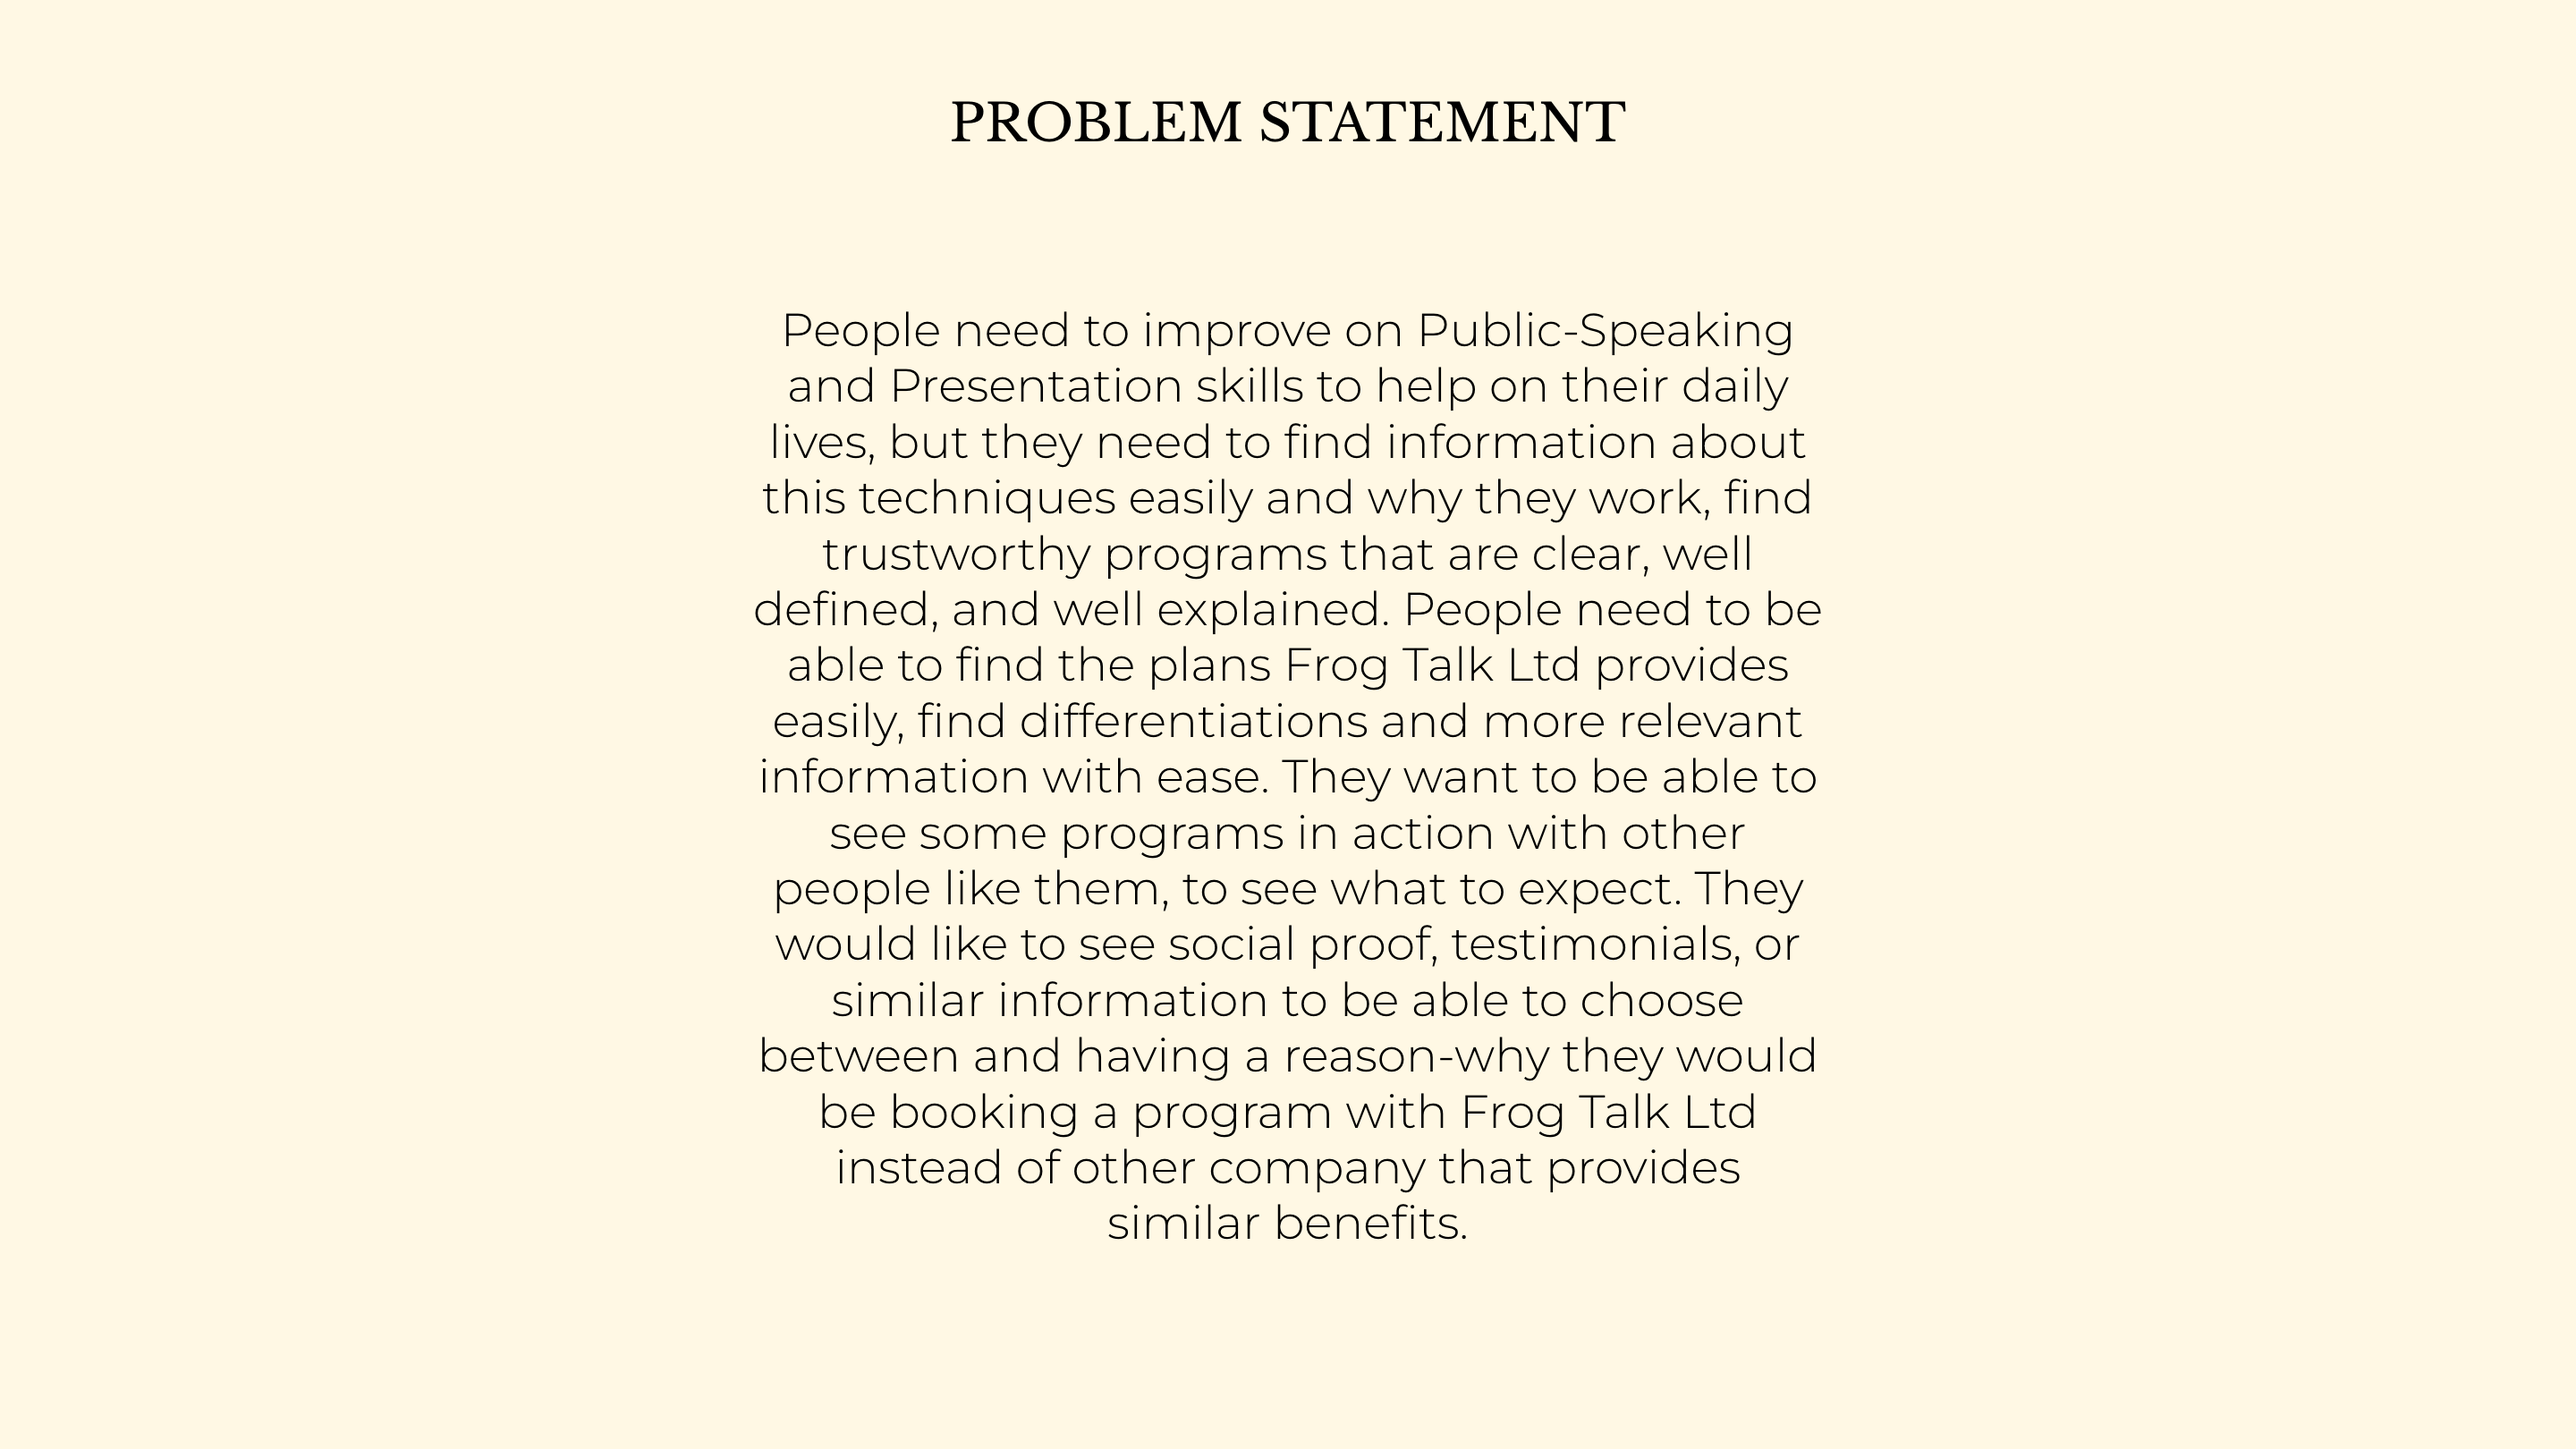
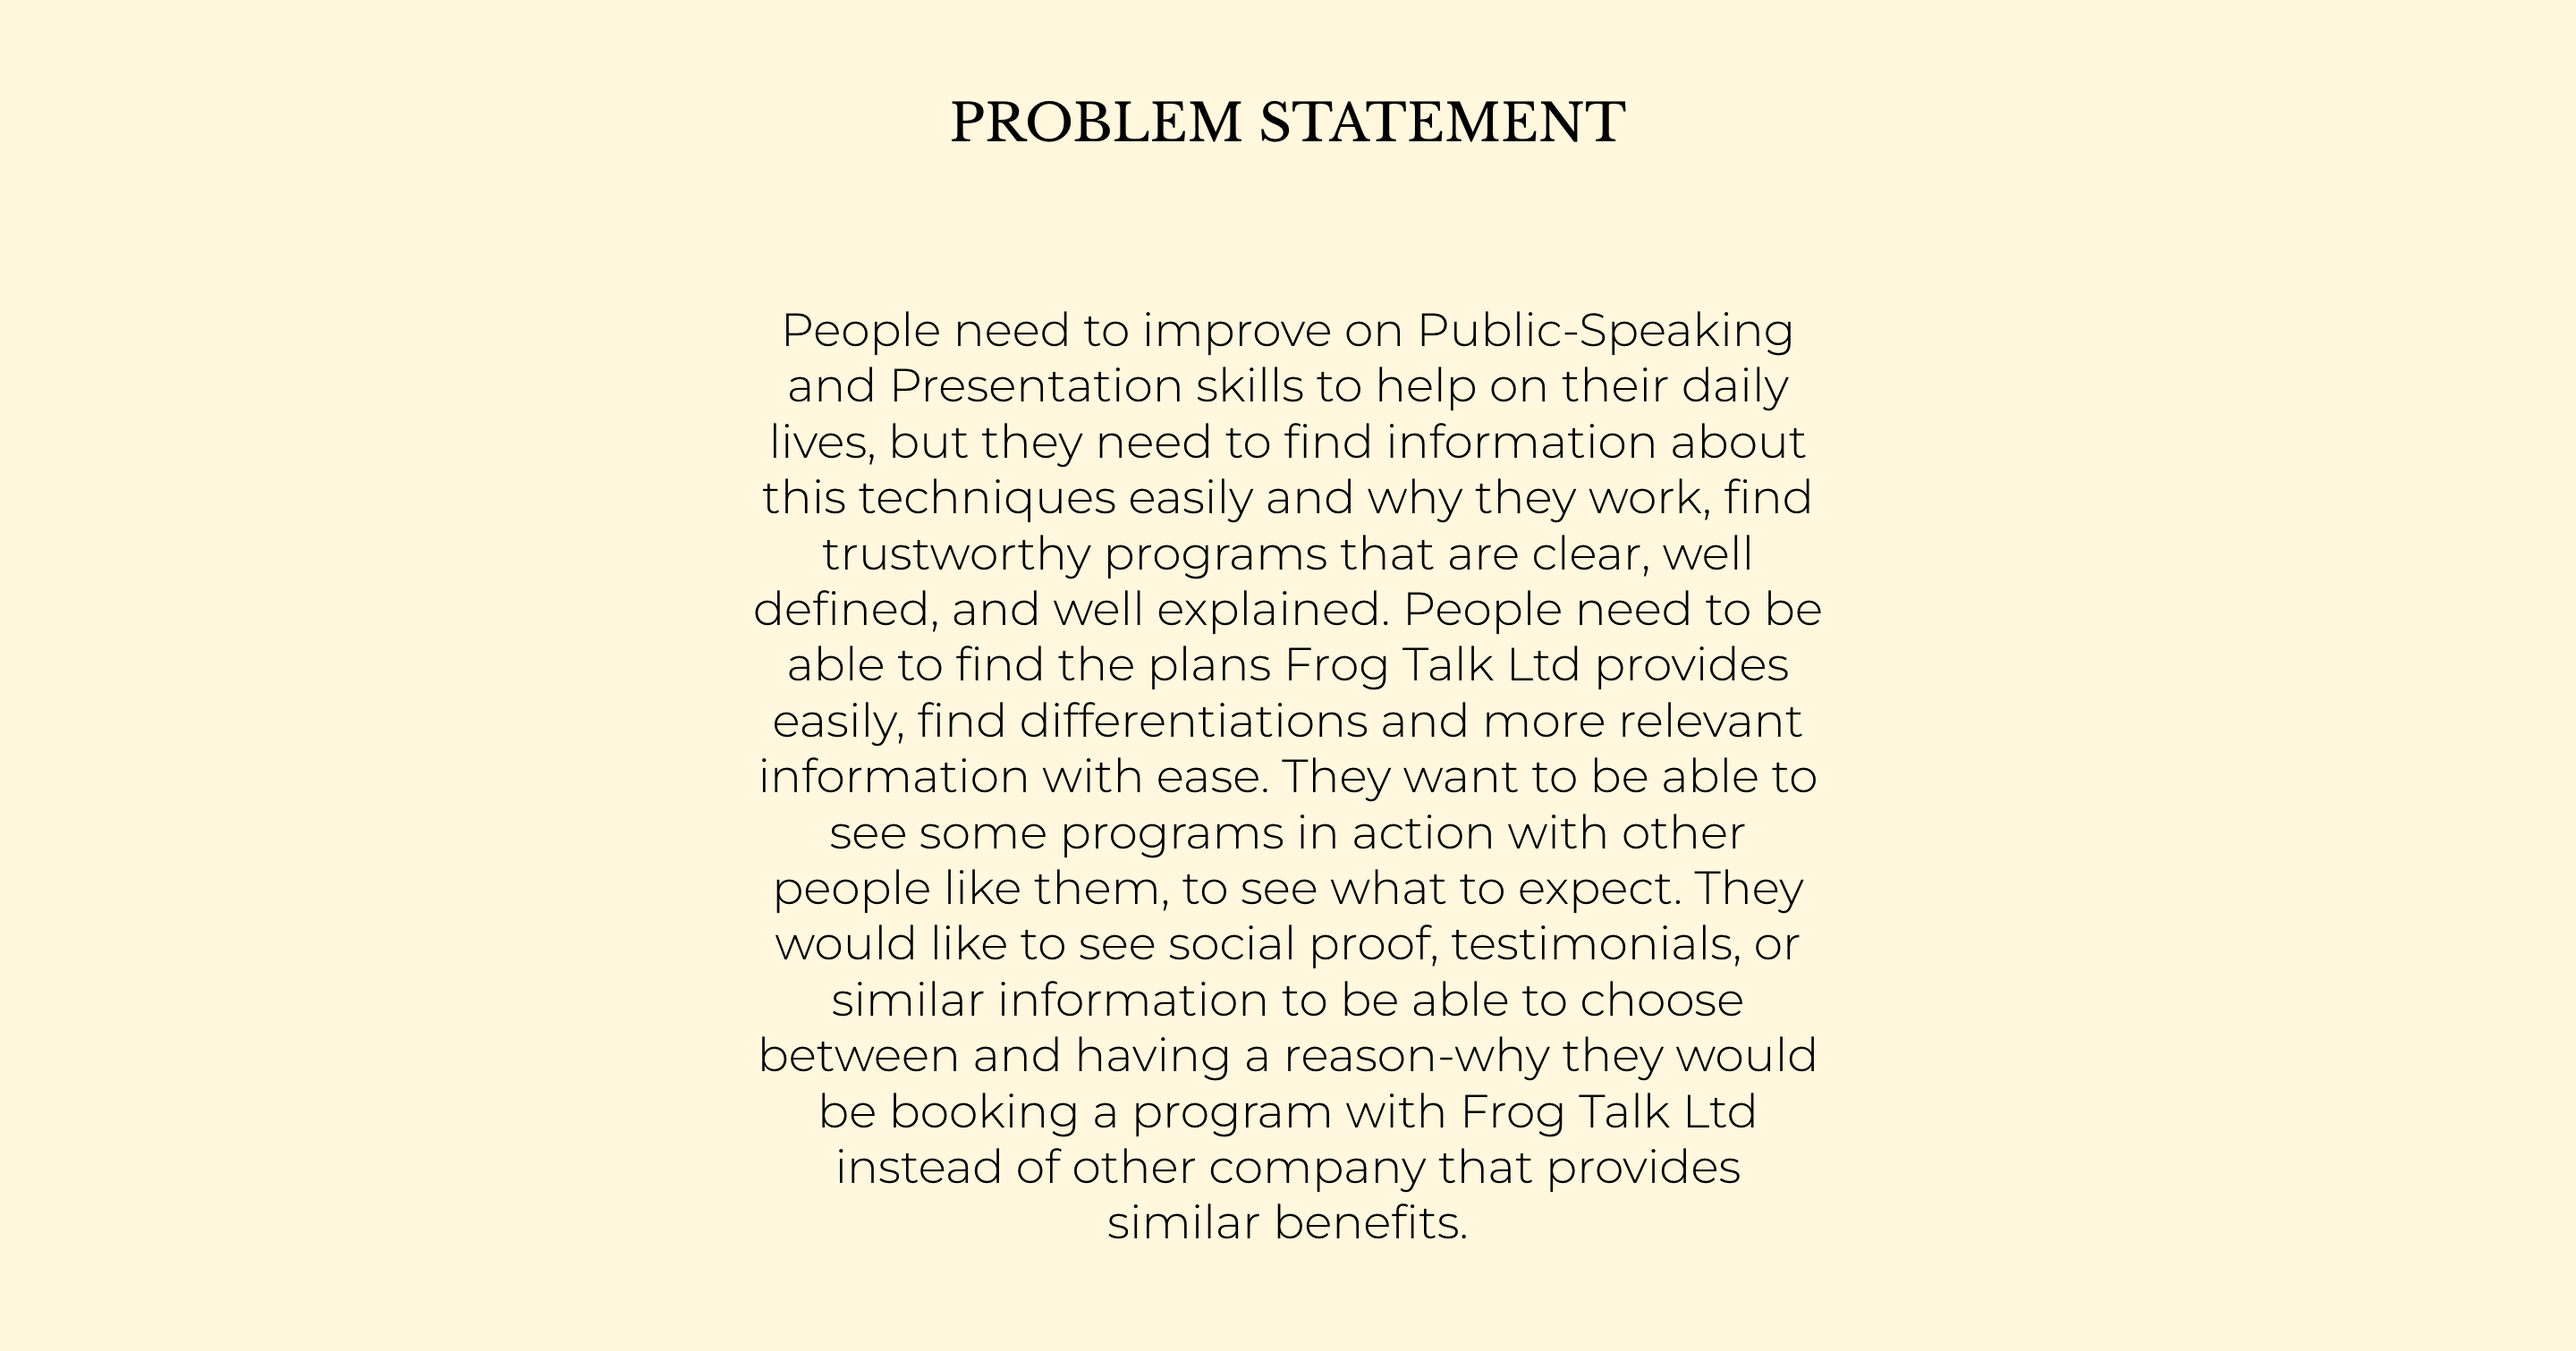
Fixing/Editing "Frog Talk Ltd's" Images.
- Cropping small side-transparent-gap from "double-diamond-process" pic. Which was noticeable with the border On, and/or image wasn't 100% aligned.
- Cropping bottom from "problem-statement" image.

Changed region(s): [[0.2812, 0.2177, 0.7188, 0.9332], [0.375, 0.0622, 0.625, 0.1244]]

diff --git a/styles/theme.scss b/styles/theme.scss
@@ -955,7 +955,7 @@ section.project-page-section {
   .page-content-mid {
     font-size:18px;//20px
     img {
-      border:1px rgba(26,42,55,0.3) solid;//theme-color("turquoise")////
+      //border:1px rgba(26,42,55,0.3) solid;//theme-color("turquoise")////
       @include border-radius(0.8rem);
     }
     blockquote {
